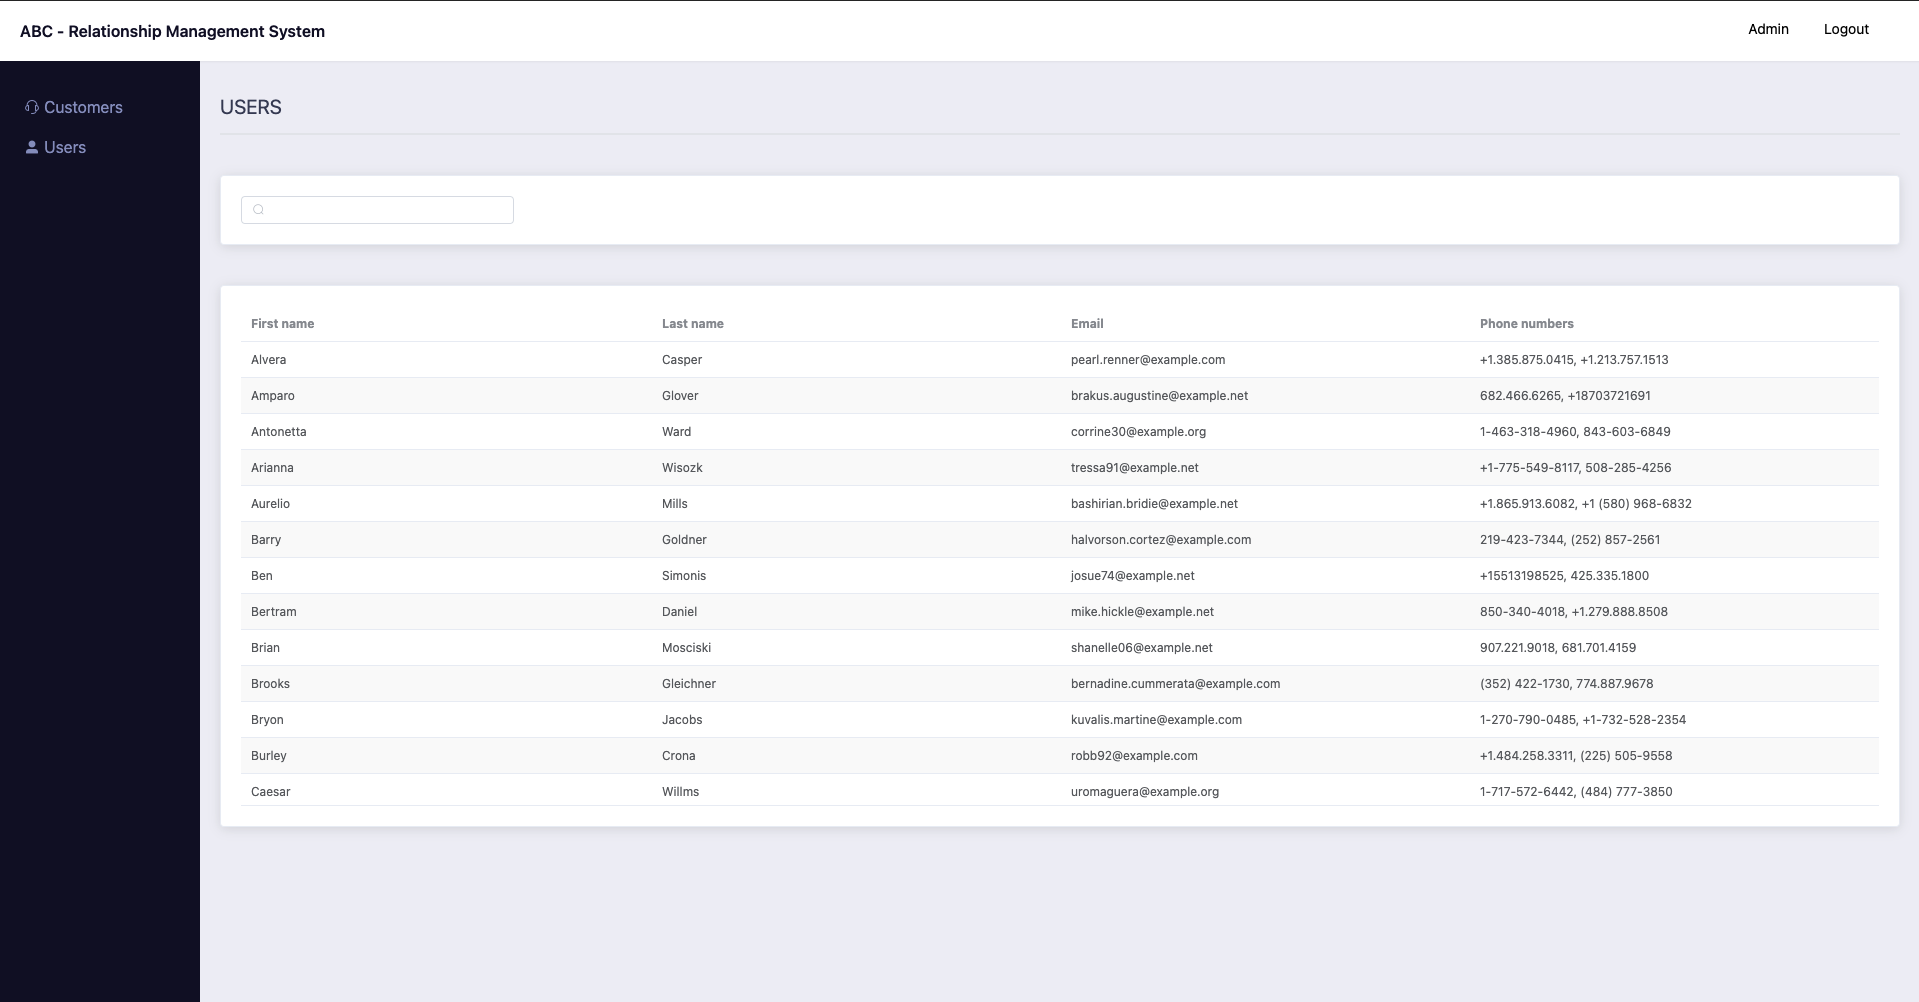
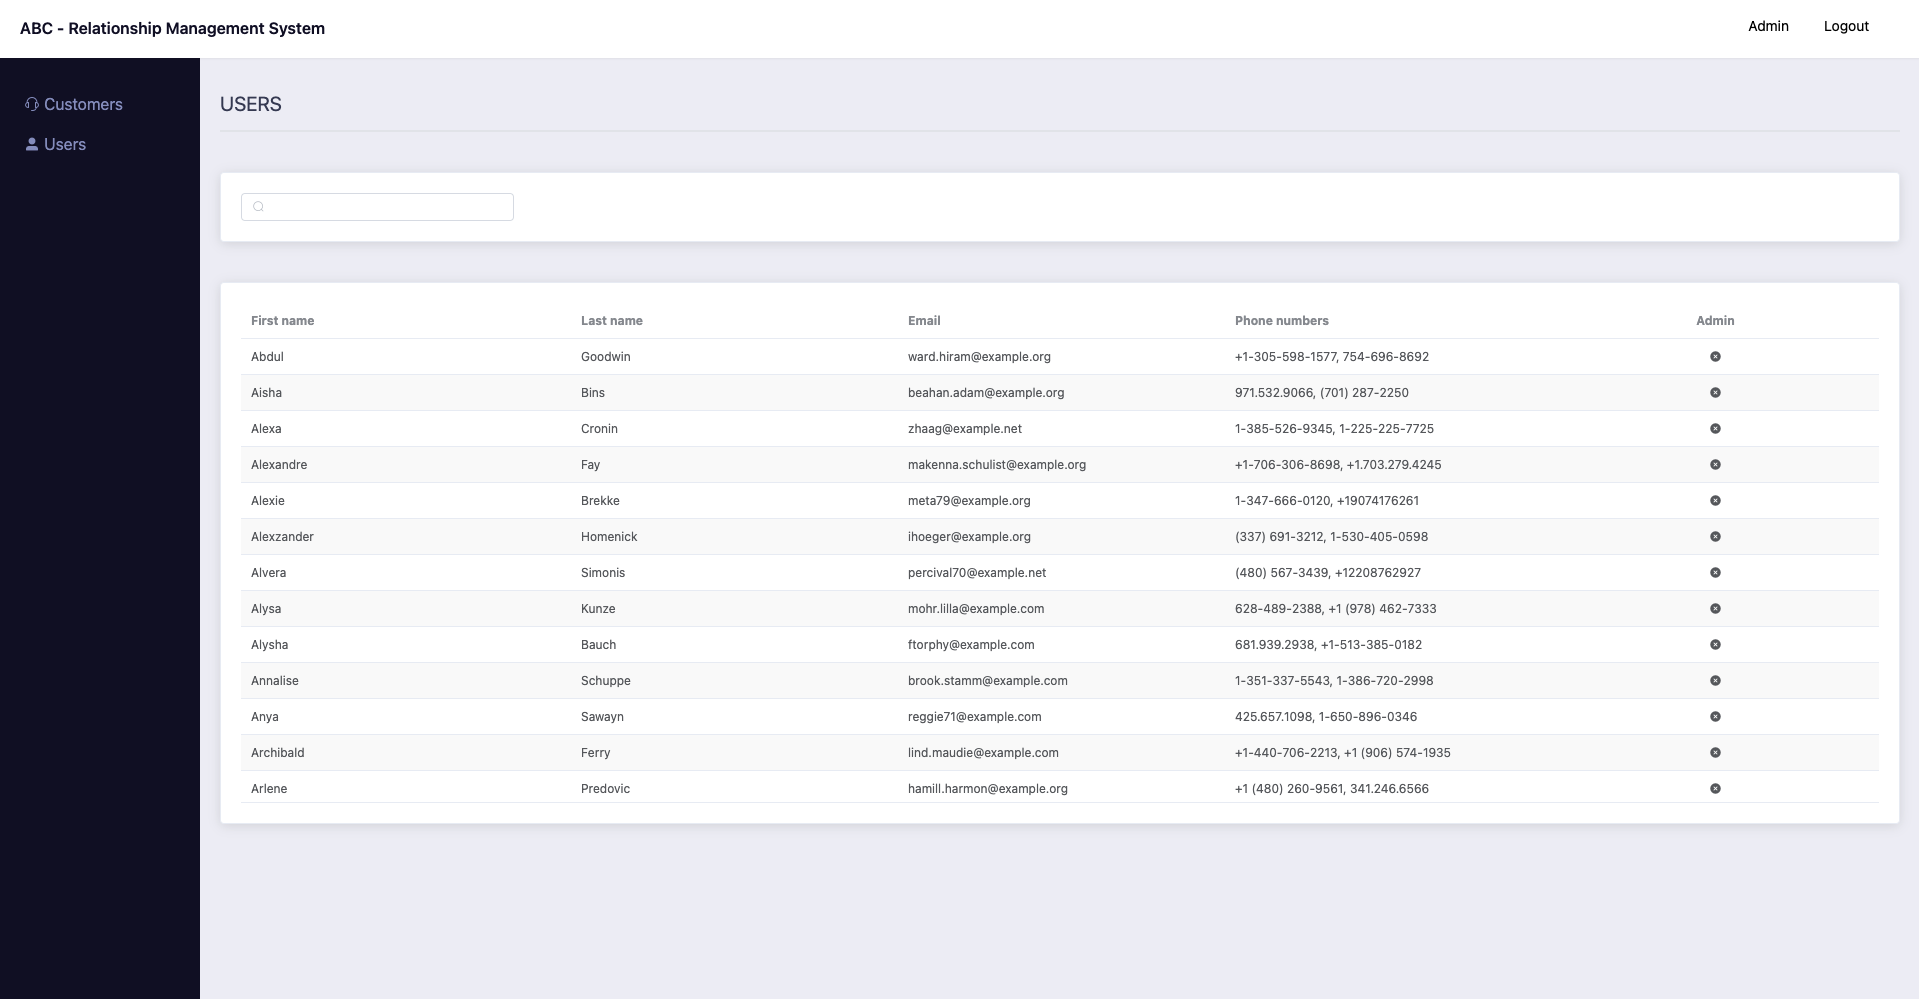
Admin column

diff --git a/public/js/resources_js_components_User_UserTable_vue.js b/public/js/resources_js_components_User_UserTable_vue.js
@@ -206,6 +206,22 @@ var render = function() {
             }
           }),
           _vm._v(" "),
+          _c("el-table-column", {
+            attrs: { prop: "is_admin", label: "Admin", align: "center" },
+            scopedSlots: _vm._u([
+              {
+                key: "default",
+                fn: function(scope) {
+                  return [
+                    scope.row.is_admin
+                      ? _c("i", { staticClass: "el-icon-success" })
+                      : _c("i", { staticClass: "el-icon-error" })
+                  ]
+                }
+              }
+            ])
+          }),
+          _vm._v(" "),
           _c(
             "infinite-loading",
             {

diff --git a/resources/js/components/User/UserTable.vue b/resources/js/components/User/UserTable.vue
@@ -62,6 +62,15 @@ export default {
                 :formatter="formatNumbers"
                 label="Phone numbers">
             </el-table-column>
+            <el-table-column
+                prop="is_admin"
+                label="Admin"
+                align="center">
+                <template slot-scope="scope">
+                    <i v-if="scope.row.is_admin" class="el-icon-success"></i>
+                    <i v-else class="el-icon-error"></i>
+                </template>
+            </el-table-column>
 
             <infinite-loading
                 slot="append"
